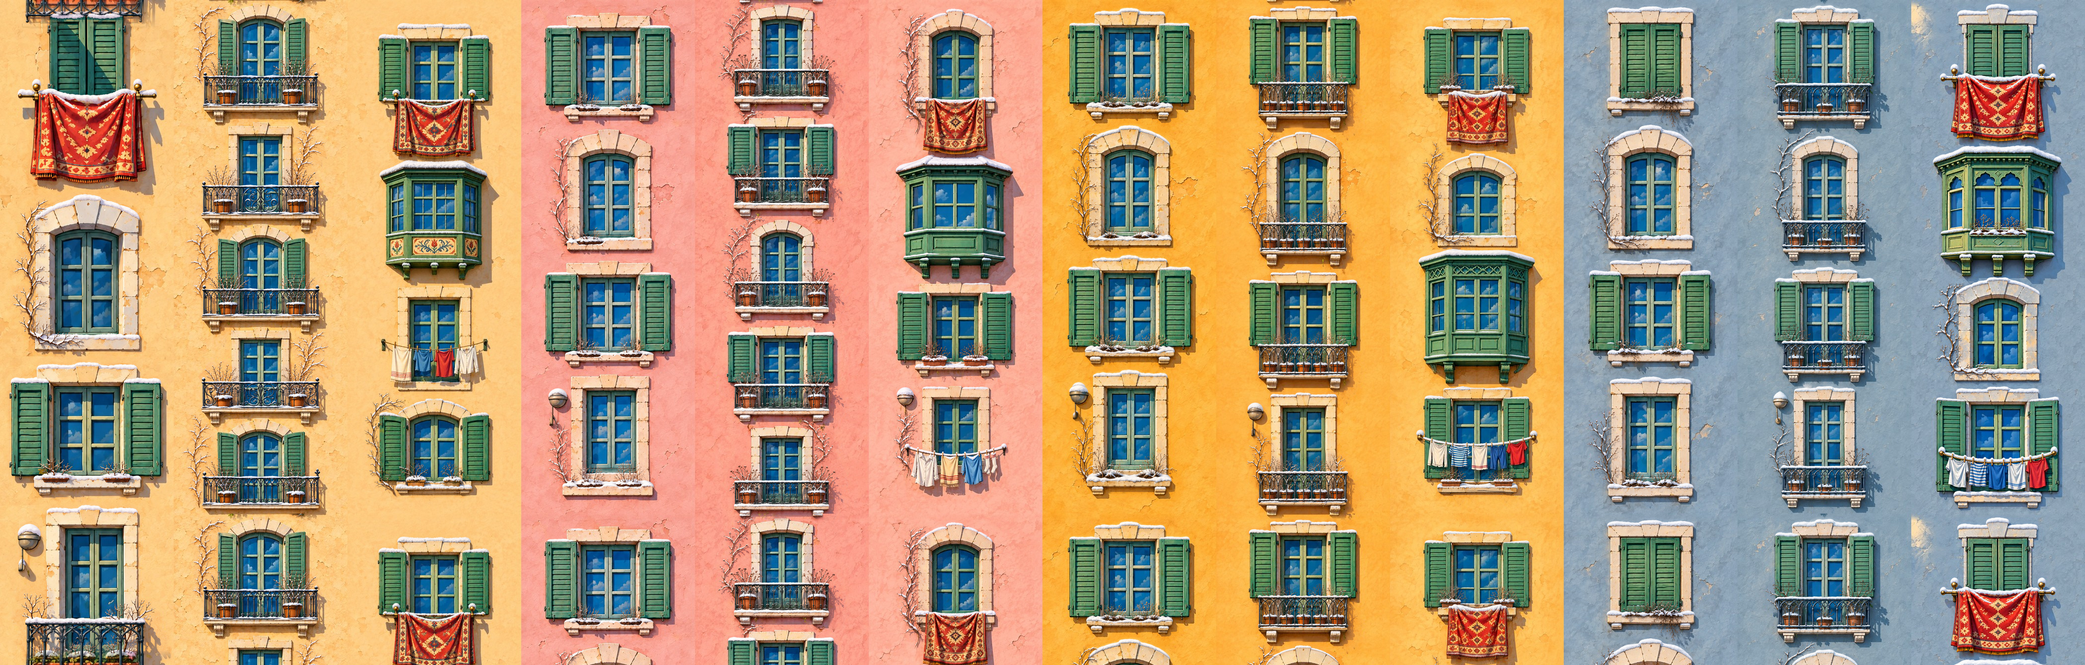
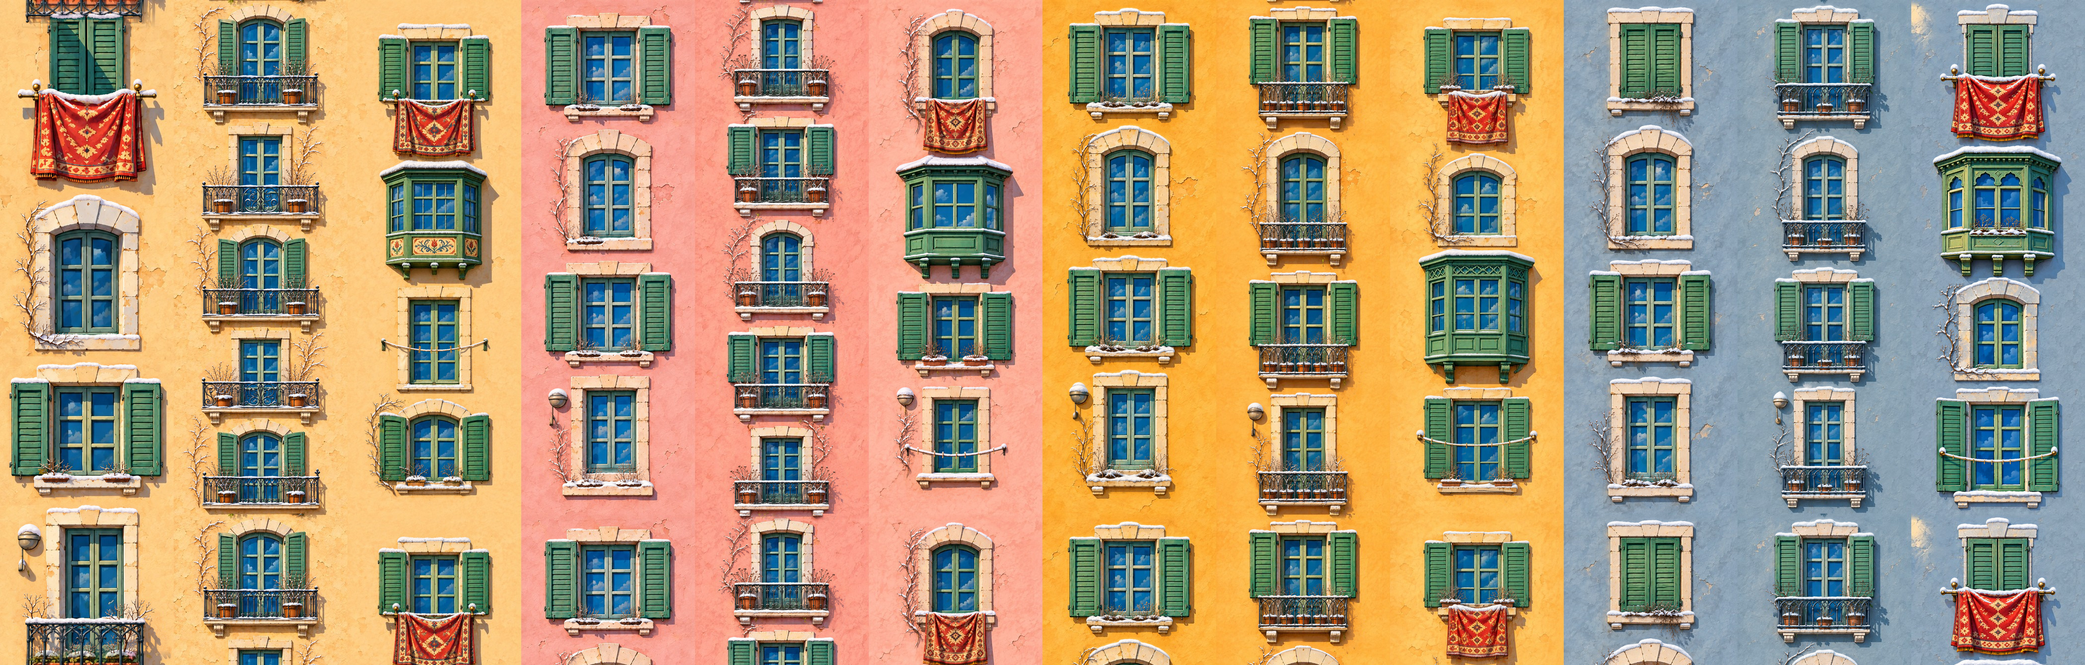
Yağmur ve karda mahalle: çamaşırsız cepheler, şallı çaylı teyze, kazaklı komşular, üşüyen ve ıslak kediler

diff --git a/frontend/app/index.tsx b/frontend/app/index.tsx
@@ -56,7 +56,7 @@ import { SFX_ON, initSfx, playFart, playSfx, setSfxMuted, stopFart, stopSfx } fr
 import { GAME_OVER_LINE, QUIP_ON, multiJumpShout, pickQuip, quipContext } from "../src/game/copy";
 import { mahalleSes } from "../src/game/mahalleSes";
 import { KARGA_ON, KARGA_TUNEMIS, KARGA_BAKIS, KARGA_YEM, KARGA_HAVALANMA, KARGA_FOOT_Y, KARGA_BOX_K, KARGA_MAX_Y, kargaSayisi, kargaTunek, kargaTunekAny, kargaBekle, kargaHedefTuru, kargaRngYap, kargaUcus, KARGA_TEST, KARGA_HAVUZ, KARGA_UCUS_MS } from "../src/game/karga";
-import { MAHALLE_ON, MAHALLE_SPEECH_ON, CUMBA_SOURCE, CUMBA_KEDI_SOURCE, CUMBA_ASPECT, CUMBA_TEYZE_SOURCE, CUMBA_TEYZE_BAKIS_SOURCE, CUMBA_TEYZE_ASPECT, cumbaBox, MAHALLE_BOX, TEYZE_ASPECT, KEDI_ASPECT, KEDI_UYUYAN_FOOT, KEDI_DIK_FOOT, AMCA_ASPECT, COCUK_ASPECT, KEDI_GERINEN_ASPECT, KEDI_GRI_ASPECT, TEYZE_SOURCE, KEDI_SOURCE, AMCA_SOURCE, COCUK_SOURCE, KEDI_GERINEN_SOURCE, KEDI_GRI_SOURCE, KEDI_ADLARI, sakin, teyzeBox, kediBox, kediAdi, kediGri, kediGriNo, pencereAspect, pencereLafi, kediLafi, KEDI_DEFTER_KEY } from "../src/game/mahalle";
+import { MAHALLE_ON, MAHALLE_SPEECH_ON, CUMBA_SOURCE, CUMBA_KEDI_SOURCE, CUMBA_ASPECT, CUMBA_TEYZE_SOURCE, CUMBA_TEYZE_BAKIS_SOURCE, CUMBA_TEYZE_ASPECT, cumbaBox, MAHALLE_BOX, TEYZE_ASPECT, KEDI_ASPECT, KEDI_UYUYAN_FOOT, KEDI_DIK_FOOT, AMCA_ASPECT, COCUK_ASPECT, KEDI_GERINEN_ASPECT, KEDI_GRI_ASPECT, TEYZE_SOURCE, KEDI_SOURCE, AMCA_SOURCE, COCUK_SOURCE, KEDI_GERINEN_SOURCE, KEDI_GRI_SOURCE, KEDI_ADLARI, sakin, teyzeBox, kediBox, kediAdi, kediGri, kediGriNo, pencereAspect, pencereLafi, kediLafi, KEDI_DEFTER_KEY, mahalleKaynak } from "../src/game/mahalle";
 import { OZEL_GUN_ON, OZEL_GUN_TEST_TAP, OZEL_GUNLER, OZEL_GUN_TEST_ORDER, todaysEvent } from "../src/game/ozelGun";
 import { HANIM_ON, ICSES_ON, LAKAP_ON, newRunStats, noteLanding, icSesAfterLanding, icSesIdle, hanimMessage, lakap } from "../src/game/amcaSesi";
 import { jumpVelocity, advanceFlight } from "../src/game/jump";
@@ -202,6 +202,9 @@ const HOUSE_FACADE_SOURCE = FACADE_ATLAS
 // (yapraksız dallar, kuru saplar, kar). Pencere/panjur/kilim pikselleri ve 1035 tekrarı birebir aynı; ölçüler değişmez.
 const KAR_CEPHE_ON = FACADE_ATLAS && (true as boolean);
 const HOUSE_FACADE_KAR_SOURCE = require("@/assets/environment/district/house/g018/facade-atlas-g018-kar.jpg");
+// MEVSIM-MAHALLE (2026-11-24): yağmurda çamaşır içeride (4 çamaşırlı hücrede ip boş; geri kalan piksel orijinal).
+// Kar atlası da çamaşırsız sürümle güncellendi.
+const HOUSE_FACADE_YAGMUR_SOURCE = require("@/assets/environment/district/house/g018/facade-atlas-g018-yagmur.jpg");
 const FACADE_CELLS = FACADE_ATLAS ? 12 : 1;
 // GORSEL-018 sartname 5: darker 3-unit outline + right-face shadow strip on the
 // playable towers, and a warm glow on the target tower's cap while charging.
@@ -373,7 +376,7 @@ const AnimatedImage = Animated.createAnimatedComponent(Image);
 const BG_SCROLL_TEST = true as boolean;
 const BG_SCROLL_RATIO = 0.45;
 const BG_SCROLL_TILES = 4;
-const BUILD_TAG = PERF_PROBE ? "" : HOUSE_ROOF_MASK_DIAG ? "R069-B: MASKE KAPALI (cati koseleri GECICI bozuk, olcum)" : GORUNUM_REV ? (TEST_START_TOWER > 0 ? `DENEME (${TEST_START_TOWER}. KULEDEN)` : PIJAMA_TEST_EARLY ? "PIJAMA DENEME (15. KULE)" : "KARLI CEPHE") : DAILY_MAP ? "DURAK v2 + GUNUN HARITASI v1" : DURAK_SEFER ? "DURAK SEFERI v2 (15 KULE)" : FAZ2_IFADE ? "FAZ2 IFADE + HALE + GAZ" : FAZ2_HALO ? "FAZ2 HALE + GAZ" : FART_TRIAL ? "GAZ DENEME v3 GERCEK SES + FAZ2" : FAZ2_DUST || FAZ2_SQUASH || CHAR_SIZE_TRIAL !== 1 ? `FAZ2 ${SFX_ON ? "SES + " : ""}TOZ+ESNEME, KARAKTER x${CHAR_SIZE_TRIAL}` : FAZ1_UI ? "FAZ1 TR ARAYUZ + G018 KONTUR" : KONTUR_PARILTI ? (HEDEF_PARILTI ? "G018 KONTUR + PARILTI" : "G018 KONTUR") : FACADE_ATLAS ? "G018 12 CEPHE + R077" : GORSEL018_TRIAL ? "G018 DENEME + R077" : BG_SCROLL_TEST ? "R077: ARKA PLAN KAYAR" : NO_IMAGE_CLIP ? "R076: GORSEL KIRPMA YOK + SYNC PROPS" : ROUNDED_CLIP_OFF ? "R071-A: KOSE KIRPMA YOK" : FRAME_DIAG ? "R068-DIAG" : "R067-B: SAYAC KAPALI";
+const BUILD_TAG = PERF_PROBE ? "" : HOUSE_ROOF_MASK_DIAG ? "R069-B: MASKE KAPALI (cati koseleri GECICI bozuk, olcum)" : GORUNUM_REV ? (TEST_START_TOWER > 0 ? `DENEME (${TEST_START_TOWER}. KULEDEN)` : PIJAMA_TEST_EARLY ? "PIJAMA DENEME (15. KULE)" : "MEVSIM MAHALLE") : DAILY_MAP ? "DURAK v2 + GUNUN HARITASI v1" : DURAK_SEFER ? "DURAK SEFERI v2 (15 KULE)" : FAZ2_IFADE ? "FAZ2 IFADE + HALE + GAZ" : FAZ2_HALO ? "FAZ2 HALE + GAZ" : FART_TRIAL ? "GAZ DENEME v3 GERCEK SES + FAZ2" : FAZ2_DUST || FAZ2_SQUASH || CHAR_SIZE_TRIAL !== 1 ? `FAZ2 ${SFX_ON ? "SES + " : ""}TOZ+ESNEME, KARAKTER x${CHAR_SIZE_TRIAL}` : FAZ1_UI ? "FAZ1 TR ARAYUZ + G018 KONTUR" : KONTUR_PARILTI ? (HEDEF_PARILTI ? "G018 KONTUR + PARILTI" : "G018 KONTUR") : FACADE_ATLAS ? "G018 12 CEPHE + R077" : GORSEL018_TRIAL ? "G018 DENEME + R077" : BG_SCROLL_TEST ? "R077: ARKA PLAN KAYAR" : NO_IMAGE_CLIP ? "R076: GORSEL KIRPMA YOK + SYNC PROPS" : ROUNDED_CLIP_OFF ? "R071-A: KOSE KIRPMA YOK" : FRAME_DIAG ? "R068-DIAG" : "R067-B: SAYAC KAPALI";
 const DIAG_MAX_EXAMPLES = 6;
 const HOUSE_AB_FROZEN = false as boolean;
 // REVIZYON-066 experiment (one variable): expo-linear-gradient's iOS layer
@@ -4788,6 +4791,8 @@ const PlatformHouseView = memo(function PlatformHouseView({ index, platforms, st
     return { opacity: 1, transform: [{ translateX: b.left + b.w / 2 - MAHALLE_BOX / 2 }, { translateY: b.top + b.h / 2 - (MAHALLE_BOX * aspect) / 2 }, { scale: b.w / MAHALLE_BOX }] };
   });
   // mode 0 = turuncu uyuyan, 1 = turuncu gerinen (amca bu kuleye indiyse), 2 = gri uyuyan
+  // MEVSIM-MAHALLE: kış/yağmur turuncu kedisinde kuyruk sarkmıyor -> gövde alt çizgisi tuvalin altında (%99).
+  const uyuyanFoot = roofWx === "kar" || roofWx === "yagmur" ? KEDI_DIK_FOOT : KEDI_UYUYAN_FOOT;
   const catStyle = (mode: number, aspect: number) => useAnimatedStyle(() => {
     const g = houseGeom.value;
     if (!g || sakin(g.p.id) !== 2) return OFF;
@@ -4795,7 +4800,7 @@ const PlatformHouseView = memo(function PlatformHouseView({ index, platforms, st
     const awake = woken ? woken.value === g.p.id : false;
     const want = gri ? 2 : awake ? 1 : 0;
     if (want !== mode) return OFF;
-    const b = kediBox(g, aspect, FART_CHAR_H, HOUSE_GUTTER_H, mode === 0 ? KEDI_UYUYAN_FOOT : KEDI_DIK_FOOT);
+    const b = kediBox(g, aspect, FART_CHAR_H, HOUSE_GUTTER_H, mode === 0 ? uyuyanFoot : KEDI_DIK_FOOT);
     if (b.w <= 0) return OFF;
     return { opacity: 1, transform: [{ translateX: b.left + b.w / 2 - MAHALLE_BOX / 2 }, { translateY: b.top + b.h / 2 - (MAHALLE_BOX * aspect) / 2 }, { scale: b.w / MAHALLE_BOX }] };
   });
@@ -4842,7 +4847,8 @@ const PlatformHouseView = memo(function PlatformHouseView({ index, platforms, st
     const g = houseGeom.value;
     return g ? { top: g.rise + HOUSE_GUTTER_H - HOUSE_GUTTER_OVERLAP - 2, width: g.fw } : { width: 0 };
   });
-  const facadeSrc = KAR_CEPHE_ON && roofWx === "kar" ? HOUSE_FACADE_KAR_SOURCE : HOUSE_FACADE_SOURCE;
+  const facadeSrc = KAR_CEPHE_ON && roofWx === "kar" ? HOUSE_FACADE_KAR_SOURCE : KAR_CEPHE_ON && roofWx === "yagmur" ? HOUSE_FACADE_YAGMUR_SOURCE : HOUSE_FACADE_SOURCE;
+  const mk = mahalleKaynak(roofWx);
   return (
     <Animated.View pointerEvents="none" style={[styles.house, houseStyle]}>
       <Animated.View style={[styles.houseFacade, facadeStyle]}>
@@ -4883,16 +4889,16 @@ const PlatformHouseView = memo(function PlatformHouseView({ index, platforms, st
             <Image source={CUMBA_KEDI_SOURCE} style={styles.houseFill} resizeMode="stretch" fadeDuration={0} />
           </Animated.View>
           <Animated.View style={[{ position: "absolute", left: 0, top: 0, width: MAHALLE_BOX, height: MAHALLE_BOX * CUMBA_TEYZE_ASPECT }, teyzeStyle]}>
-            <Image source={CUMBA_TEYZE_SOURCE} style={styles.houseFill} resizeMode="stretch" fadeDuration={0} />
+            <Image source={mk.teyze} style={styles.houseFill} resizeMode="stretch" fadeDuration={0} />
           </Animated.View>
           <Animated.View style={[{ position: "absolute", left: 0, top: 0, width: MAHALLE_BOX, height: MAHALLE_BOX * CUMBA_TEYZE_ASPECT }, teyzeBakisStyle]}>
-            <Image source={CUMBA_TEYZE_BAKIS_SOURCE} style={styles.houseFill} resizeMode="stretch" fadeDuration={0} />
+            <Image source={mk.teyzeBakis} style={styles.houseFill} resizeMode="stretch" fadeDuration={0} />
           </Animated.View>
           <Animated.View style={[{ position: "absolute", left: 0, top: 0, width: MAHALLE_BOX, height: MAHALLE_BOX * AMCA_ASPECT }, amcaStyle]}>
-            <Image source={AMCA_SOURCE} style={styles.houseFill} resizeMode="stretch" fadeDuration={0} />
+            <Image source={mk.amca} style={styles.houseFill} resizeMode="stretch" fadeDuration={0} />
           </Animated.View>
           <Animated.View style={[{ position: "absolute", left: 0, top: 0, width: MAHALLE_BOX, height: MAHALLE_BOX * COCUK_ASPECT }, cocukStyle]}>
-            <Image source={COCUK_SOURCE} style={styles.houseFill} resizeMode="stretch" fadeDuration={0} />
+            <Image source={mk.cocuk} style={styles.houseFill} resizeMode="stretch" fadeDuration={0} />
           </Animated.View>
         </>
       )}
@@ -4932,13 +4938,13 @@ const PlatformHouseView = memo(function PlatformHouseView({ index, platforms, st
       {MAHALLE_ON && (
         <>
           <Animated.View style={[{ position: "absolute", left: 0, top: 0, width: MAHALLE_BOX, height: MAHALLE_BOX * KEDI_ASPECT }, kediStyle]}>
-            <Image source={KEDI_SOURCE} style={styles.houseFill} resizeMode="stretch" fadeDuration={0} />
+            <Image source={mk.kedi} style={styles.houseFill} resizeMode="stretch" fadeDuration={0} />
           </Animated.View>
           <Animated.View style={[{ position: "absolute", left: 0, top: 0, width: MAHALLE_BOX, height: MAHALLE_BOX * KEDI_GERINEN_ASPECT }, kediGerStyle]}>
-            <Image source={KEDI_GERINEN_SOURCE} style={styles.houseFill} resizeMode="stretch" fadeDuration={0} />
+            <Image source={mk.kediGerinen} style={styles.houseFill} resizeMode="stretch" fadeDuration={0} />
           </Animated.View>
           <Animated.View style={[{ position: "absolute", left: 0, top: 0, width: MAHALLE_BOX, height: MAHALLE_BOX * KEDI_GRI_ASPECT }, kediGriStyle]}>
-            <Image source={KEDI_GRI_SOURCE} style={styles.houseFill} resizeMode="stretch" fadeDuration={0} />
+            <Image source={mk.kediGri} style={styles.houseFill} resizeMode="stretch" fadeDuration={0} />
           </Animated.View>
         </>
       )}

diff --git a/frontend/src/game/mahalle.ts b/frontend/src/game/mahalle.ts
@@ -32,6 +32,33 @@ export const CUMBA_KEDI_SOURCE = require("@/assets/environment/mahalle/cumba-ked
 export const CUMBA_TEYZE_SOURCE = require("@/assets/environment/mahalle/cumba-teyze-hali.png");
 export const CUMBA_TEYZE_BAKIS_SOURCE = require("@/assets/environment/mahalle/cumba-teyze-bakis.png");
 export const CUMBA_TEYZE_ASPECT = 1300 / 1000;
+// MEVSIM-MAHALLE (2026-11-24, kullanıcı: "kışın ve yağmurlu havalarda çamaşır asılması saçma olmuş ... teyzede yaz
+// modunda ... kışın kedi üşür halde gözüksün" -> "Kabul, bağla"). Yağmur/kar hâlleri; tuval ölçüleri orijinalle aynı.
+// Teyze ve komşular "serin" hâli (hırka/kazak/bere) iki havada ortak; kediler kışın üşüyen, yağmurda ıslak.
+export type MahalleHava = "kar" | "yagmur" | null;
+const CUMBA_TEYZE_SERIN = require("@/assets/environment/mahalle/cumba-teyze-serin.png");
+const CUMBA_TEYZE_SERIN_BAKIS = require("@/assets/environment/mahalle/cumba-teyze-serin-bakis.png");
+const AMCA_SERIN = require("@/assets/environment/mahalle/komsu-amca-serin.png");
+const COCUK_SERIN = require("@/assets/environment/mahalle/komsu-cocuk-serin.png");
+const KEDI_KIS = require("@/assets/environment/mahalle/kedi-uyuyan-kis.png");
+const KEDI_YAGMUR = require("@/assets/environment/mahalle/kedi-uyuyan-yagmur.png");
+const KEDI_GRI_KIS = require("@/assets/environment/mahalle/kedi-gri-uyuyan-kis.png");
+const KEDI_GRI_YAGMUR = require("@/assets/environment/mahalle/kedi-gri-uyuyan-yagmur.png");
+const KEDI_GERINEN_KIS = require("@/assets/environment/mahalle/kedi-gerinen-kis.png");
+const KEDI_GERINEN_YAGMUR = require("@/assets/environment/mahalle/kedi-gerinen-yagmur.png");
+export function mahalleKaynak(hava: MahalleHava) {
+  const serin = hava === "kar" || hava === "yagmur";
+  const kis = hava === "kar", yag = hava === "yagmur";
+  return {
+    teyze: serin ? CUMBA_TEYZE_SERIN : CUMBA_TEYZE_SOURCE,
+    teyzeBakis: serin ? CUMBA_TEYZE_SERIN_BAKIS : CUMBA_TEYZE_BAKIS_SOURCE,
+    amca: serin ? AMCA_SERIN : AMCA_SOURCE,
+    cocuk: serin ? COCUK_SERIN : COCUK_SOURCE,
+    kedi: kis ? KEDI_KIS : yag ? KEDI_YAGMUR : KEDI_SOURCE,
+    kediGri: kis ? KEDI_GRI_KIS : yag ? KEDI_GRI_YAGMUR : KEDI_GRI_SOURCE,
+    kediGerinen: kis ? KEDI_GERINEN_KIS : yag ? KEDI_GERINEN_YAGMUR : KEDI_GERINEN_SOURCE,
+  };
+}
 // Eski küçük pencere komşuları (komşu amca, çocuk) oran sorunu yüzünden kapalı; cumbalı sürümleri çizilince açılır.
 export const ESKI_KOMSULAR_ON = false as boolean;
 /** Görsellerin sabit kutu genişliği (dünya birimi); gerçek boyut transform scale ile verilir. */

diff --git a/frontend/scripts/yagmur-camasir-birlestir.py b/frontend/scripts/yagmur-camasir-birlestir.py
@@ -1,0 +1,30 @@
+import sys, numpy as np
+from PIL import Image
+from scipy import ndimage as nd
+D,S,G=sys.argv[1:4]
+o=np.asarray(Image.open(G+'/facade-atlas-g018.jpg').convert('RGB')).astype(float)/255
+k0=np.asarray(Image.open(G+'/facade-atlas-g018-kar.jpg').convert('RGB')).astype(float)/255
+k1=np.asarray(Image.open(S+'/hazir/facade-atlas-g018-kar.jpg').convert('RGB')).astype(float)/255
+out=o.copy()
+for c in (2,5,8,11):
+    x=slice(c*350,c*350+350)
+    km=nd.gaussian_filter(np.abs(k1[:1035,x]-k0[:1035,x]).max(-1),2)>0.15
+    km=nd.binary_closing(km,np.ones((9,9)))
+    lab,n=nd.label(km); sz=nd.sum(km,lab,range(1,n+1)); big=lab==(1+int(np.argmax(sz)))
+    sl=nd.find_objects(big.astype(int))[0]
+    y0,y1=max(0,sl[0].start-25),min(1035,sl[0].stop+25); x0,x1=max(4,sl[1].start-20),min(346,sl[1].stop+20)
+    gi=Image.open(D+'/camasir-yagmur-hucre-%02d.png'%c).convert('RGB')
+    g=np.asarray(gi.resize((350,1035),Image.LANCZOS)).astype(float)/255
+    d=np.abs(g-o[:1035,x]).max(-1)
+    m=nd.gaussian_filter(d,2)>0.18
+    box=np.zeros_like(m); box[y0:y1,x0:x1]=True; m&=box
+    m=nd.binary_dilation(m,np.ones((7,7)))&box
+    a=nd.gaussian_filter(m.astype(float),2.5)[...,None]
+    band=o[:1035,x]*(1-a)+g*a
+    col=o[:,x].copy(); col[:1035]=band; col[1035:]=band[:305]; out[:,x]=col
+    print(c,'kutu y',y0,y1,'x',x0,x1,'alan %',round(m.mean()*100,1))
+Image.fromarray((out*255).astype(np.uint8)).save(S+'/hazir/facade-atlas-g018-yagmur.jpg',quality=92,subsampling=0)
+c=Image.new('RGB',(4*360,700),'white'); A=Image.open(G+'/facade-atlas-g018.jpg'); B=Image.open(S+'/hazir/facade-atlas-g018-yagmur.jpg')
+for i,cc in enumerate([2,5,8,11]):
+    c.paste(A.crop((cc*350,0,cc*350+350,1340)).resize((175,670)),(i*360,0)); c.paste(B.crop((cc*350,0,cc*350+350,1340)).resize((175,670)),(i*360+180,0))
+c.save(S+'/yagmur_cam.png')

diff --git a/frontend/scripts/kar-cephe-birlestir.py b/frontend/scripts/kar-cephe-birlestir.py
@@ -48,15 +48,21 @@ def hizala_ve_aktar(o, g, dikis_koru=0):
 
 
 def main():
-    klasor, cikti = sys.argv[1], sys.argv[2]
-    src = np.asarray(Image.open(KAYNAK).convert("RGB")).astype(float) / 255
+    import argparse
+    ap = argparse.ArgumentParser()
+    ap.add_argument("klasor"); ap.add_argument("cikti"); ap.add_argument("rapor", nargs="?")
+    ap.add_argument("--kaynak", default=KAYNAK, help="üzerine oturtulacak atlas")
+    ap.add_argument("--desen", default="hucre-{c:02d}-kis.png", help="hücre dosya adı deseni")
+    a = ap.parse_args()
+    klasor, cikti = a.klasor, a.cikti
+    src = np.asarray(Image.open(a.kaynak).convert("RGB")).astype(float) / 255
     out = src.copy()
     rapor = []
     for c in range(12):
         x0 = c * CELL
         per = PERIOD[c]
         try:
-            gi = Image.open(f"{klasor}/hucre-{c:02d}-kis.png").convert("RGB")
+            gi = Image.open(f"{klasor}/" + a.desen.format(c=c)).convert("RGB")
         except FileNotFoundError:
             rapor.append(f"hucre {c:02d}: CIZIM YOK, orijinal kaldi")
             continue
@@ -77,8 +83,8 @@ def main():
     Image.fromarray((np.clip(out, 0, 1) * 255).astype(np.uint8)).save(cikti, quality=92, subsampling=0)
     txt = "\n".join(rapor)
     print(txt)
-    if len(sys.argv) > 3:
-        open(sys.argv[3], "w").write(txt + "\n")
+    if a.rapor:
+        open(a.rapor, "w").write(txt + "\n")
 
 
 if __name__ == "__main__":

diff --git a/frontend/CODEX-MESAJI-MEVSIM-MAHALLE-2026-11-24.md b/frontend/CODEX-MESAJI-MEVSIM-MAHALLE-2026-11-24.md
@@ -1,0 +1,41 @@
+Kıvılcım için — MEVSIM-MAHALLE-2026-11-24: yağmur ve kar/kış hâlleri, çamaşır, teyze, komşular, kediler (Byzantion)
+
+Kullanıcı onayı: "Evet, 19 çizim" (2026-11-24). Toplam 19 görsel üretim çağrısı; fazlası gerekirse önce sor.
+Kullanıcının sözü: "kışın ve yağmurlu havalarda çamaşır asılması saçma olmuş ayrıca camdan çıkan teyzede yaz modunda bu mevsim değişikliklerinde mevsimine uygun olsun her taraf kedi de dahil olmak üzere. mesela kışın kedi üşür halde gözüksün".
+
+Genel kurallar (hepsi için):
+- Tuval boyutu ve karakterin tuvaldeki yeri/ölçeği ORİJİNALLE AYNI (oyun bu görselleri aynı kutuya çiziyor). Ayak/pencere pervazı/cumba alt kenarı aynı pikselde.
+- Aynı çizim üslubu, aynı karakter kimliği (yüz, saç, bıyık, kedi deseni).
+- Şeffaf PNG; arka plan, yazı, gölge zemini yok. Kar taneleri/yağmur damlası yalnız karakterin üstünde, tuvale dağılmış değil.
+- Arapça ünlem ve dini motif yok.
+Çıktı klasörü: ~/Documents/Codex/2026-09-09/referenced-chatgpt-conversation-this-is-an/shared/MEVSIM-MAHALLE-preview/
+
+## A) Çamaşır — 8 çizim (cephe atlası hücreleri)
+Atlas: frontend/assets/environment/district/house/g018/facade-atlas-g018.jpg (4200×1340, 12 hücre × 350 px). Çamaşırlı hücreler: 2, 5, 8, 11 (x = c×350 … +350). Her hücre için y = 0 … 1035 bandını kullan (KAR-CEPHE'de hücre 1'de yaptığın gibi; o yöntem kaymasız oturdu).
+- Yağmur: orijinal atlasın bandı → çamaşır ipi BOŞ (mandal kalabilir), çamaşırların arkasındaki pencere/panjur/duvar tamamlanmış; geri kalan her şey aynı (yaz bitkileri dahil). Çıktı: camasir-yagmur-hucre-02.png, -05, -08, -11.
+- Kar: frontend/assets/environment/district/house/g018/facade-atlas-g018-kar.jpg bandı → çamaşır ipi boş, ipin ve sırığın üstünde ince kar; geri kalan aynı. Çıktı: camasir-kar-hucre-02.png, -05, -08, -11.
+Kırpma/birleştirme yapma; ham çıktı yeter, hizalamayı Claude yapar.
+
+## B) Teyze — 3 çizim ("serin hava" hâli; hem yağmurda hem kışta kullanılacak)
+Halı silkelemiyor (yağmurda/karda halı silkelenmez). Yün hırka + başında yün şal, iki eliyle buharı tüten ince belli çay bardağı tutuyor, pencereden dışarı bakıyor; hafif üşümüş ama güler yüzlü.
+1. assets/environment/mahalle/cumba-teyze-hali.png (600×780) → cumba-teyze-serin.png (aynı tuval, aynı gövde yeri; halının yerini boş bırak).
+2. assets/environment/mahalle/cumba-teyze-bakis.png (600×780) → cumba-teyze-serin-bakis.png (aynı hâl, başını çevirmiş bakan pozu, bakis görselindeki gibi).
+3. assets/environment/mahalle/komsu-teyze-hali.png (440×615, pencere + panjurlar dahil) → komsu-teyze-serin.png (pencere/panjur birebir aynı, teyze serin hâlde, halı yok).
+
+## C) Komşular — 2 çizim (yağmur ve kış ortak)
+4. assets/environment/mahalle/komsu-amca-bagiran.png (440×461) → komsu-amca-serin.png: atlet yerine kalın örgü kazak, aynı bağıran poz, pencere aynı.
+5. assets/environment/mahalle/komsu-cocuk-alkis.png (440×450) → komsu-cocuk-serin.png: ponponlu yün bere + atkı, aynı alkış pozu, penceredeki çiçek saksısı YOK, pencere aynı.
+
+## D) Kediler — 6 çizim
+Kediler kule çatısının yanına/pervaza konuyor; ayak/gövde alt çizgisi orijinalle aynı yükseklikte olmalı.
+Kış (üşüyen): tüyler kabarmış, kuyruğunu üstüne sarmış, sıkıca büzülmüş, sırtında birkaç kar tanesi, hafif titreme çizgileri.
+6. kedi-uyuyan.png (360×255, turuncu tekir) → kedi-uyuyan-kis.png
+7. kedi-gri-uyuyan.png (360×229, gri tekir) → kedi-gri-uyuyan-kis.png
+8. kedi-gerinen.png (360×255) → kedi-gerinen-kis.png: gerinmiyor; dört ayağı altında toplanmış "ekmek somunu" oturuşu, titriyor.
+Yağmur (ıslak): tüyler ıslak ve yapışık, kulakları geriye yatık, huysuz; üstünde birkaç damla.
+9. kedi-uyuyan-yagmur.png  10. kedi-gri-uyuyan-yagmur.png  11. kedi-gerinen-yagmur.png (gerinen yerine silkinen/ıslak oturan)
+
+## Teslim
+- Yukarıdaki 19 PNG + onizleme.png (her yeni görsel orijinalinin yanında, ızgara).
+- Her karakter için kontrol: tuval boyutu aynı mı, alt kenar (pervaz/ayak) aynı pikselde mi; değilse düzelt.
+- Oyun koduna dokunma; kullanıcı kabul etmeden oyuna girmez.

diff --git a/frontend/AI_REVIEW.md b/frontend/AI_REVIEW.md
@@ -3108,3 +3108,18 @@ EVIDENCE (ai_review_evidence/KAR-CEPHE-2026-11-24/):
 4. Simülatör (iPhone 17, kar testi): sim-karli-cephe.png — menü ve oyun içinde kış cephesi, kargalar pervazda doğru.
 OPEN_ISSUES: Hücre 0 en alt balkonunda dikiş şeridinde (30 px) eski saksı yeşilinden kırıntı kalabilir. Telefonda gerçek kar günüyle görülmedi. Karlı atlas çözülünce bellek ~22 MB artar (yalnız kar günü). Android doğrulanmadı.
 NEXT: Kullanıcı telefon videosu.
+
+## MEVSIM-MAHALLE — yağmur ve kar/kışta mahalle — 2026-11-24
+TASK: Kullanıcı videosu (12:11): "kışın ve yağmurlu havalarda çamaşır asılması saçma ... teyzede yaz modunda ... kışın kedi üşür halde gözüksün". 19 çizim onayı → "Kabul, bağla".
+CHANGED:
+- Yeni görseller (assets/environment/mahalle/): cumba-teyze-serin(-bakis).png (cumba pervazı y=414'te yumuşak kırpıldı), komsu-amca-serin, komsu-cocuk-serin, kedi-{uyuyan,gri-uyuyan,gerinen}-{kis,yagmur}.png. komsu-teyze-serin oyunda kullanılmadığı için eklenmedi.
+- Atlas: facade-atlas-g018-yagmur.jpg (yeni; 2/5/8/11 hücrelerinde çamaşır alındı), facade-atlas-g018-kar.jpg (aynı hücrelerde çamaşırsız sürümle güncellendi).
+- src/game/mahalle.ts: mahalleKaynak(hava) — kar/yağmurda serin teyze/komşu, kışta üşüyen, yağmurda ıslak kedi.
+- app/index.tsx: cephe kaynağı yağmurda yağmur atlası; mahalle görselleri mahalleKaynak(roofWx); turuncu uyuyan kedi kış/yağmurda ayak çizgisi KEDI_DIK_FOOT (görselde kuyruk sarkmıyor: gövde altı %99, orijinal %75). BUILD_TAG "MEVSIM MAHALLE".
+- scripts/kar-cephe-birlestir.py (--kaynak, --desen), scripts/yagmur-camasir-birlestir.py.
+EVIDENCE (ai_review_evidence/MEVSIM-MAHALLE-2026-11-24/):
+1. Dosya: Kıvılcım 19 çizim (shared/MEVSIM-MAHALLE-preview/). Tuval ölçüleri orijinalle aynı (ölçüldü).
+2. Ölçü/pivot: kedilerin son satırı orijinalle aynı; gövde alt çizgisi alfa taramasıyla ölçüldü (turuncu uyuyan: 191/255 → 254/255). Çamaşır hücreleri: kayma (0,0); kar atlasında aktarılan alan %4–6; yağmurda çizim duvara ıslaklık eklediği için yalnız çamaşır bölgesi (kar farkının en büyük bileşeni ±25 px) aktarıldı, alan %5–9.
+3. Katman: kaynak değişimi yalnız; kutular, z-sırası, yerleşim aynı.
+4. Simülatör (MAHALLE_TEST geçici açık, sonra kapatıldı): sim-yagmur-kar-teyze-kedi.png, sim-kedi-yagmur-kar.png.
+OPEN_ISSUES: Turuncu uyuyan kedinin yeni ayak çizgisi simülatörde görülmedi (yalnız ölçümle). Eski pencere komşuları (amca, çocuk) ESKI_KOMSULAR_ON=false nedeniyle oyunda zaten kapalı; görselleri hazır. Kar yağmayan kış ve sonbahar ikinci aşama. Android doğrulanmadı.

diff --git a/frontend/GAME_STUDIO.md b/frontend/GAME_STUDIO.md
@@ -2049,3 +2049,4 @@ TESLIM_HAZIR: AMCA-DUSUS-KIS-2026-11-23 — kışta da "eyvah" çırpınması (b
 
 TESLIM_HAZIR: AMCA-DUSUS-DIGER-2026-11-23 — pijama ve özel gün aksesuarlarıyla düşüş, şemsiyeli kareler (şemsiye kapalı olduğundan pasif); ai_review_evidence/AMCA-DUSUS-2026-11-23/RAPOR.md.
 TESLIM_HAZIR: KAR-CEPHE-2026-11-24 — kar yağan günde kış cephesi (yapraksız dallar, kuru saplar, kar), assets/.../facade-atlas-g018-kar.jpg, kanıt ai_review_evidence/KAR-CEPHE-2026-11-24/; kullanıcı atlası kabul etti, telefon videosu bekleniyor.
+TESLIM_HAZIR: MEVSIM-MAHALLE-2026-11-24 — yağmur ve karda çamaşırsız cephe, şallı çaylı teyze, kazaklı/bereli komşular, üşüyen/ıslak kediler; kanıt ai_review_evidence/MEVSIM-MAHALLE-2026-11-24/; ikinci aşama (karsız kış, sonbahar) kullanıcı kararı bekliyor.
